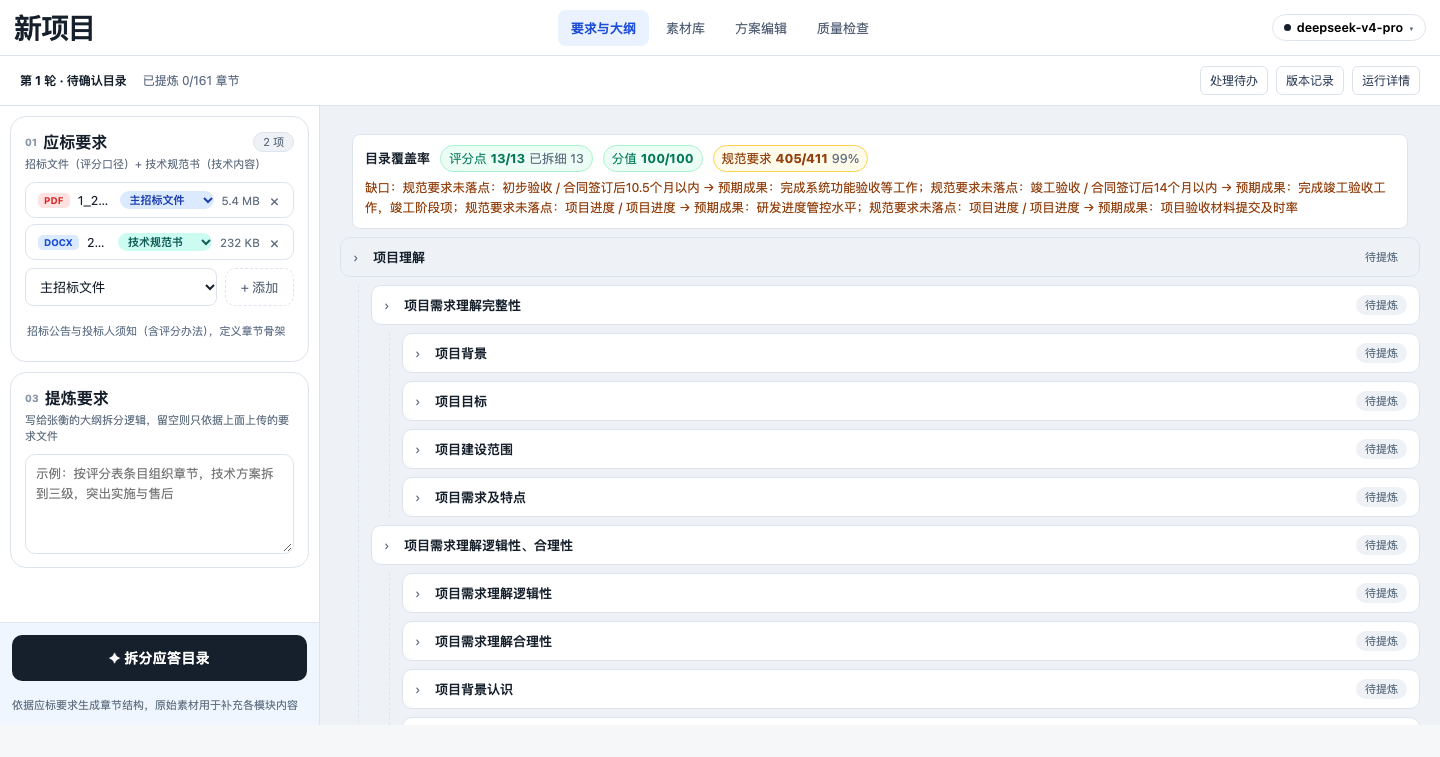
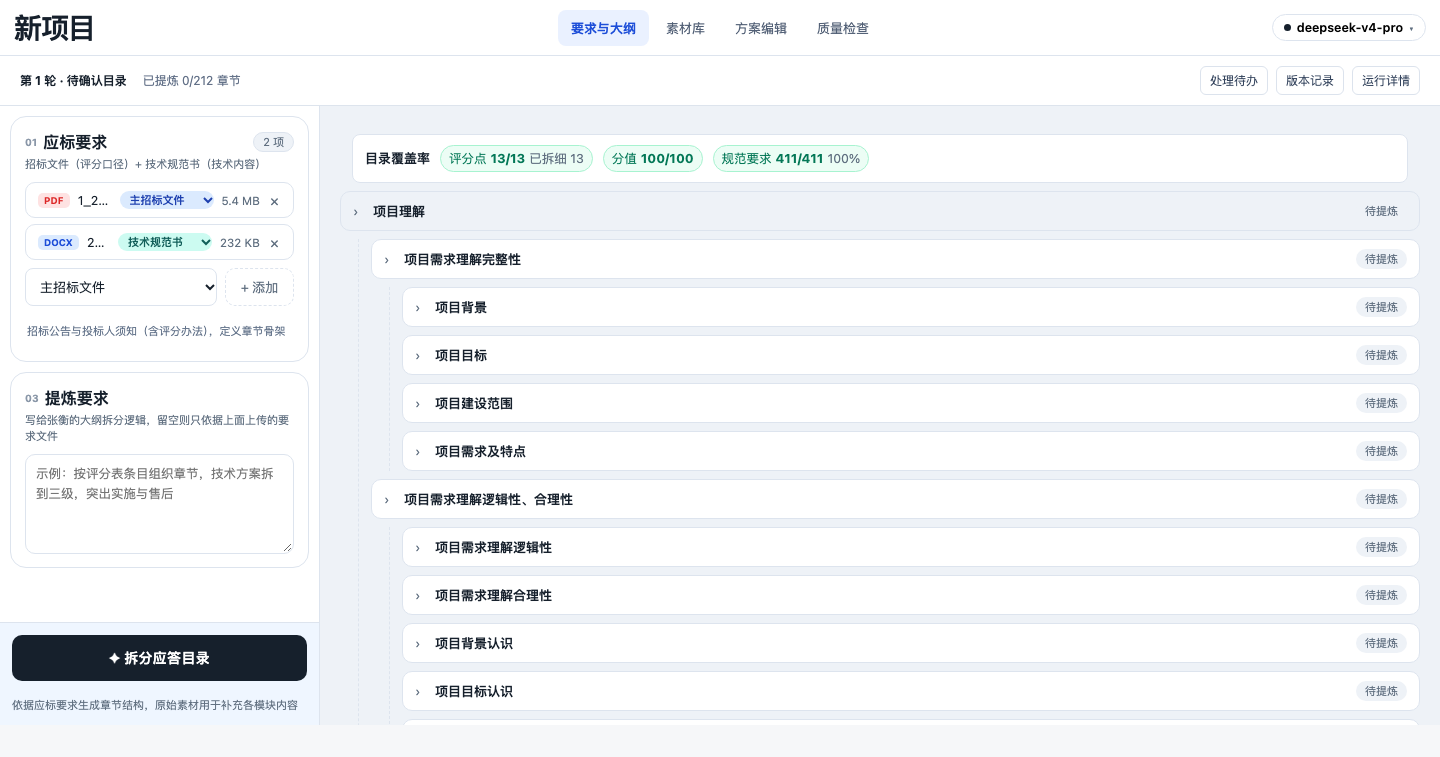
feat(outline): 按用户明确要求的算法补全——标星项 + 规范书要求内容进目录
## 用户明确的目标算法
> 先根据对应标的的技术评分点，拆分章节目录，**大的评分点为主目录**，再根据对应
> **详细评分要求拆分子目录**，做到契合得分点，再根据技术规范书内容，将**标星项**和
> **技术规范书要求内容补充到对应的目录结构**中，形成一份既契合得分点、又满足
> 技术规范书要求的目录大纲。

对照现状核对后，前两步本来就对（L1=评分因素 / L2=详细评审项 / L3=分项要素），
**后两步是缺的**：
- 标星项（★/▲）在此前**只用于 grounding**（给 8 字段提炼继承原文），
  目录里一个字都没有 —— 实测标的1 的「3.4.2. 自主可控要求」带★却不在 161 节目录里；
- 技术规范书**要求内容**只并入了「研究专题/工具」那一层，411 条要求没有落到对应章节。

## 改法
1. **标星项进目录**（`outline_builder`）：带 marks 的规范书章节按关键词匹配挂到最相关的
   评分节点下，标题前缀保留 ★/▲；**匹配不到也必须出现**（宁可进"要求应答"板块，不能丢）。
2. **规范书要求内容按主题挂载**：411 条要求按 topic 聚合（客户档案管理模块 282 条、
   客户标签 150 条、研究专题 17-32 条…），每个主题成一个节点并写出条数
   （如「四、项目管理（规范要求 9 条）」），`requirement_id` 全部挂在该节点的链上 ——
   目录有落点、覆盖度可计算、写作时能按 id 取回每一条要求。
   **不逐条成章**：一个模块主题 282 条会把目录撑爆。
3. 修掉两处漏字段：
   - `flat` 投影漏了 `special_marks` → `_marks_of` 永远拿到空数组（标星项 0 个）；
   - 新增 `_marks_of()` 兼容 dict / dataclass 两种形态。

## 真实数据验证（项目 19，标的1）
```
rev=5  toc=212 节
覆盖率：评分点 13/13（已拆细 13）· 分值 100/100 · 规范要求 411/411（100%，改造前 405/411）
L1 = 项目理解 / 项目进度计划 / 项目团队人员 / 项目业绩 / 开发要求 / 技术实现方案 / 技术规范书要求应答
标星项：L2 ★ 3.4.2. 自主可控要求        ← 改造后 1 个（改造前 0 个）
规范要求主题节点：50 个（「四、项目管理（规范要求 9 条）」「项目进度（规范要求 4 条）」…）
面板：评分点 13/13 已拆细 13 · 分值 100/100 · 规范要求 411/411 100%
截图：docs/screenshots/biaodi1-outline.png
```

## 测试
后端 **730 passed**（新增 3 项：标星项进目录、匹配不到也不丢、要求主题挂到匹配章节
且 requirement_id 进链、覆盖率算到落点）。

## 残留
note 里的「重挂层级不自洽的节点 14 个」仍在（结构核对正确，属告警噪声，待查）。

diff --git a/backend/infra/parser/outline_builder.py b/backend/infra/parser/outline_builder.py
@@ -435,7 +435,8 @@ def build_outline(review_points: Iterable, *, spec_sections: Iterable = (),
                   max_spec_level: int = 99,
                   subpoints_by_criterion: Optional[dict] = None,
                   placement_targets: Iterable[str] = (),
-                  requirement_ids_by_title: Optional[dict] = None) -> list[OutlineNode]:
+                  requirement_ids_by_title: Optional[dict] = None,
+                  requirement_groups: Optional[list] = None) -> list[OutlineNode]:
     """**主入口**：评分侧骨架 + 规范书结合点，输出一份稳定可复现的目录。
 
     ``placement_targets``：从提炼要求里解析出的"把规范书内容放到 X 下"的目标表述
@@ -534,6 +535,63 @@ def build_outline(review_points: Iterable, *, spec_sections: Iterable = (),
         pruned = dict(node)
         pruned["children"] = kids
         return pruned
+
+    # ③ 规范书**标星项**（★/▲）必须进目录：它们是招标人点名的硬要求，
+    #    此前只用于 grounding（继承给 8 字段提炼），目录里一个字都看不到 ——
+    #    实测标的1 的「3.4.2. 自主可控要求」带★却完全没进 161 节目录。
+    marked = [s for s in (spec_sections or [])
+              if (s.get("special_marks") if isinstance(s, dict)
+                  else getattr(s, "special_marks", None))]
+    for sec in marked:
+        title = (sec.get("title") if isinstance(sec, dict) else getattr(sec, "title", "")) or ""
+        marks = (sec.get("special_marks") if isinstance(sec, dict)
+                 else getattr(sec, "special_marks", [])) or []
+        keys = _topic_keys(title)
+        best, best_score = None, 0
+        for node in scoring_nodes:
+            target = _normalize(" ".join([node.title, node.factor, node.item, node.criterion]))
+            score = sum(1 for k in keys if k in target)
+            if score > best_score:
+                best, best_score = node, score
+        marked_node = OutlineNode(
+            level=(best.level + 1) if best else 2,
+            title=f"{''.join(marks)} {title}".strip(), source="marked",
+            review_point_id=(best.review_point_id if best else ""),
+        )
+        if best is not None:
+            idx = nodes.index(best) + 1 + _subtree_len(nodes, best)
+            nodes.insert(idx, marked_node)
+        else:
+            nodes.append(marked_node)      # 匹配不到也要出现，不能丢
+
+    # ④ 技术规范书**要求内容**按主题挂到对应章节。
+    #    411 条要求逐条成章会让目录爆掉（客户档案管理模块一个主题就 282 条），
+    #    所以按主题聚合、把 requirement_id 全部挂在该节点的链上 ——
+    #    这样目录里有落点、覆盖度可计算、写作时能按 id 取回每一条要求。
+    for group in (requirement_groups or []):
+        topic = str(group.get("topic") or "").strip()
+        ids = list(group.get("ids") or [])
+        if not topic or not ids:
+            continue
+        keys = _topic_keys(topic)
+        best, best_score = None, 0
+        for node in scoring_nodes:
+            target = _normalize(" ".join([node.title, node.factor, node.item, node.criterion]))
+            score = sum(1 for k in keys if k in target)
+            if score > best_score:
+                best, best_score = node, score
+        host = best if best_score else None
+        node = OutlineNode(
+            level=(host.level + 1) if host else 2,
+            title=f"{topic}（规范要求 {len(ids)} 条）",
+            source="spec", spec_requirement_ids=ids,
+            review_point_id=(host.review_point_id if host else ""),
+        )
+        if host is not None:
+            idx = nodes.index(host) + 1 + _subtree_len(nodes, host)
+            nodes.insert(idx, node)
+        else:
+            nodes.append(node)             # 匹配不到的主题进"要求应答"板块
 
     leftovers = [p for p in (_prune(t) for t in forest) if p]
     if leftovers:

diff --git a/backend/agents/zhang_heng.py b/backend/agents/zhang_heng.py
@@ -90,6 +90,15 @@ def _render_toc_text(sections: list[DomainSection]) -> str:
     return "\n".join(lines)
 
 
+def _marks_of(section) -> list[str]:
+    """读一个来源章节的标星标记（★/▲）。dict / dataclass 两种形态都要兼容。"""
+    if section is None:
+        return []
+    if isinstance(section, dict):
+        return list(section.get("special_marks") or [])
+    return list(getattr(section, "special_marks", None) or [])
+
+
 def _ground_sections(
     sections: list[DomainSection],
     source_sections: list[DomainSection],
@@ -418,7 +427,10 @@ class ZhangHengAgent:
         # 整份文件灌进去时，招标公告/资格要求/合同范本会把真正要的章节挤出预算。
         flat = [
             {"title": s.title, "content": s.raw_content, "level": s.level,
-             "source_file": getattr(s, "source_file", "") or ""}
+             "source_file": getattr(s, "source_file", "") or "",
+             # special_marks（★/▲）必须带过来：用户要求"把标星项补充到对应目录结构"，
+             # 而这里漏了它 → 标星项在目录里 0 个（实测标的1 的★项没出现）。
+             "special_marks": list(getattr(s, "special_marks", None) or [])}
             for s in source_toc
         ]
         # ── 确定性路径：材料里有评分表时，目录结构由规则定，模型只抽细项 ──
@@ -573,7 +585,13 @@ class ZhangHengAgent:
         if not spec_files:
             spec_files = sorted({s["source_file"] for s in flat
                                  if s.get("source_file") and s["source_file"] != review_file})
-        spec_sections = [s for s in sections_in if s.get("source_file") in spec_files]
+        # 标星（★/▲）必须一路带到目录构建：它们此前只用于 grounding（给 8 字段
+        # 提炼继承原文），目录里看不到 —— 用户明确要求"把标星项补充到对应目录结构"。
+        spec_sections = [
+            {**s, "special_marks": list(_marks_of(flat[i]))}
+            for i, s in enumerate(sections_in)
+            if s.get("source_file") in spec_files
+        ]
 
         # L3 细项：模型抽取（带接地校验 + 内容哈希缓存），失败回落规则拆分
         from agents.subpoints import extract_points
@@ -631,11 +649,23 @@ class ZhangHengAgent:
         # ⚠ 用**生效后**的过滤条件：容错放宽了 picked（13 条），若这里还传原来的
         # package_no="1"，build_scoring_skeleton 会**再过滤一遍**清空骨架 ——
         # 结果只剩 1 个顶级节点、判定结构不完整、退回模型路径（实测踩到）。
+        # 技术规范书要求内容按主题分组 → 挂到对应章节（用户要求"将技术规范书要求
+        # 内容补充到对应的目录结构"）。逐条成章会让目录爆掉（一个模块主题就 282 条），
+        # 所以按主题聚合、requirement_id 全挂在节点链上。
+        groups: dict[str, list[str]] = {}
+        for r in requirements:
+            topic = str(getattr(r, "topic", "") or "").strip()
+            rid = str(getattr(r, "stable_id", "") or getattr(r, "requirement_id", "") or "")
+            if topic and rid:
+                groups.setdefault(topic, []).append(rid)
+        requirement_groups = [{"topic": t, "ids": ids} for t, ids in groups.items()]
+
         outline = build_outline(picked, spec_sections=spec_sections,
                                 category=effective_category, package_no=effective_package_no,
                                 subpoints_by_criterion=subpoints or None,
                                 placement_targets=placement,
-                                requirement_ids_by_title=requirement_ids_by_title(requirements))
+                                requirement_ids_by_title=requirement_ids_by_title(requirements),
+                                requirement_groups=requirement_groups)
         if not outline:
             return None
 

diff --git a/tests/infra/test_outline_builder.py b/tests/infra/test_outline_builder.py
@@ -188,3 +188,73 @@ def test_filters_by_category_and_package():
     titles = [n.title for n in nodes]
     assert "商务响应" not in titles
     assert titles.count("技术方案") == 1
+
+
+# ── 用户明确要求的算法：标星项 + 规范书要求内容都要进目录 ──────────
+# 「先根据技术评分点拆分章节目录（大评分点为主目录，详细评分要求为子目录），
+#   再根据技术规范书内容，将**标星项**和技术规范书**要求内容**补充到对应目录结构中」
+
+def _spec_marked(id_, level, title, content="", marks=("★",)):
+    s = _spec(id_, level, title, content)
+    return {**s, "special_marks": list(marks)}
+
+
+def test_starred_spec_section_lands_in_outline():
+    """标星项（★/▲）是招标人点名的硬要求，必须出现在目录里。
+
+    改造前它只被用于 grounding（给 8 字段提炼继承原文），目录里一个字都看不到 ——
+    实测标的1 的「3.4.2. 自主可控要求」带★，161 节目录里 0 个带★。
+    """
+    from infra.parser.outline_builder import build_outline
+
+    rp = _rp("技术方案", "技术方案", "1、技术方案可行性：架构合理得 10 分。")
+    outline = build_outline(
+        [rp],
+        spec_sections=[_spec_marked("s1", 3, "自主可控要求", "应满足自主可控要求")],
+    )
+    starred = [n for n in outline if "★" in n.title]
+    assert starred, "标星项没有进目录"
+    assert "自主可控要求" in starred[0].title
+
+
+def test_starred_section_never_dropped_when_unmatched():
+    """匹配不到任何评分点时也必须出现（宁可挂在要求应答板块，也不能丢）。"""
+    from infra.parser.outline_builder import build_outline
+
+    rp = _rp("技术方案", "技术方案", "1、技术方案可行性：架构合理得 10 分。")
+    outline = build_outline(
+        [rp],
+        spec_sections=[_spec_marked("s1", 3, "完全无关的某个专题名称", "", marks=("▲",))],
+    )
+    assert any("▲" in n.title and "完全无关的某个专题名称" in n.title for n in outline)
+
+
+def test_requirement_groups_attach_to_matching_chapter_with_ids():
+    """规范书要求内容按主题挂到对应章节，并把 requirement_id 挂到节点链上。
+
+    覆盖度靠这些 id 计算；逐条成章会让目录爆掉（一个模块主题就有 282 条），
+    所以按主题聚合、条数写在标题里。
+    """
+    from infra.parser.outline_builder import build_outline, compute_coverage
+
+    rp = _rp("技术方案", "技术方案可行性", "1、技术方案可行性：实施计划详细得 30 分。")
+    outline = build_outline(
+        [rp],
+        requirement_groups=[
+            {"topic": "技术方案可行性", "ids": ["sr-1", "sr-2"]},
+            {"topic": "完全不相关的主题", "ids": ["sr-9"]},
+        ],
+    )
+    hit = [n for n in outline if "（规范要求 2 条）" in n.title]
+    assert hit and hit[0].spec_requirement_ids == ["sr-1", "sr-2"]
+    # 挂到匹配章节下（比它深一级），而不是另起一个顶级章节
+    assert hit[0].level > 1
+    # 匹配不到的主题也保留
+    assert any("完全不相关的主题" in n.title for n in outline)
+
+    class _R:
+        def __init__(self, sid, title):
+            self.stable_id, self.title, self.topic = sid, title, ""
+    cov = compute_coverage(outline, [rp],
+                           [_R("sr-1", "a"), _R("sr-2", "b"), _R("sr-9", "c")])
+    assert cov["requirements_landed"] == 3      # 三个 id 都有落点
